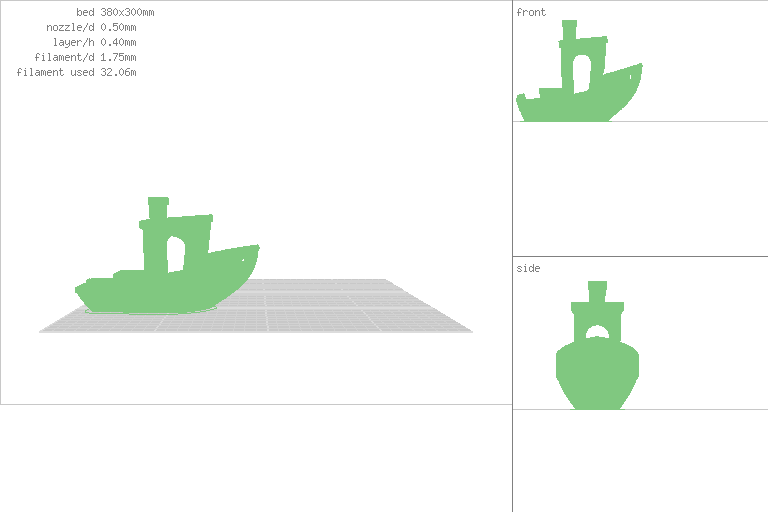
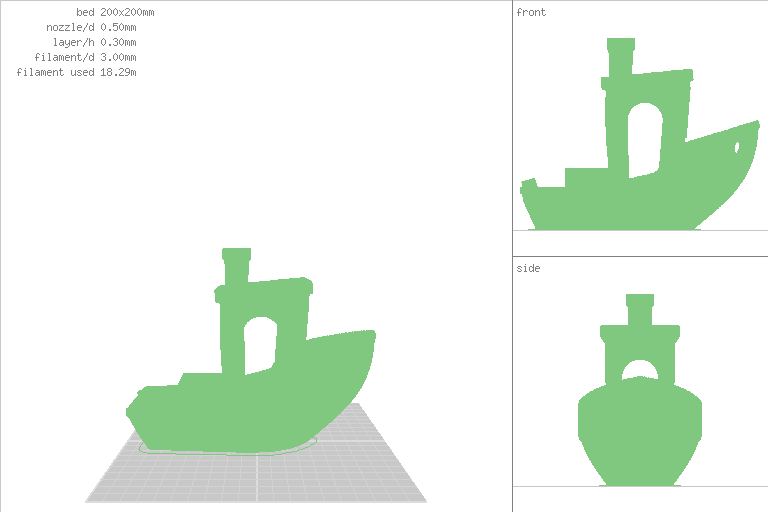
...

diff --git a/README.md b/README.md
@@ -143,9 +143,9 @@ print3r print cube.scad
 ### Render Example
 Instead to actually print parts, you can also let them render into .png image as well (e.g. for documentation purposes or preview):
 ```
-print3r --output=cube-example.png render cube.scad
+print3r --output=benchy.png render 3DBenchy.scad
 ```
-![](https://raw.githubusercontent.com/Spiritdude/Print3r/master/examples/cube.png)
+![](https://raw.githubusercontent.com/Spiritdude/Print3r/master/examples/benchy.png)
 
 ## See Also
 - [Spiritdude's Public Notebook: Print3r](https://spiritdude.wordpress.com/tag/print3r/)
